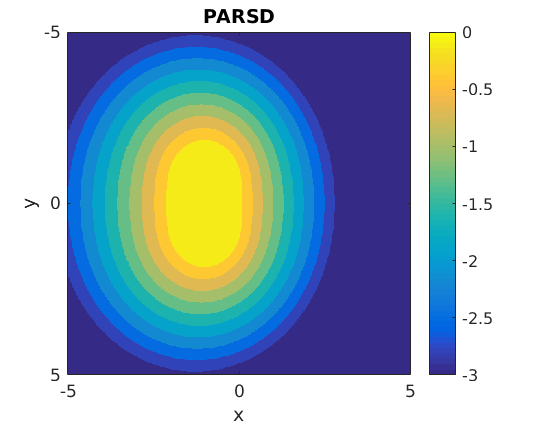
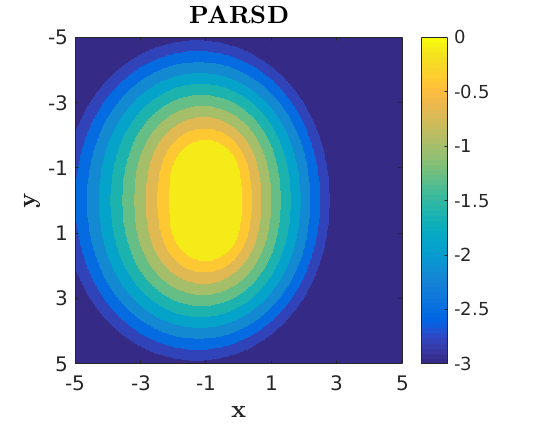
Changed font size and format.

Changed region(s): [[0.03, 0.0, 0.9288, 0.946], [0.4195, 0.946, 0.4794, 1.0]]

diff --git a/Documents/M1/realizableFermionicM1/figures/MabWithDiffClosure.m b/Documents/M1/realizableFermionicM1/figures/MabWithDiffClosure.m
@@ -1,41 +1,41 @@
-% close all
-% clear all
-% 
-% PolynomialCB = @(x) x^2 * ( 3.0 - abs(x) + 3.0 * x^2 ) / 5.0;
-% EddingtonFCB = @(e,f) (2.0/3.0)*(1.0-e)*(1.0-2.0*e)*PolynomialCB(f/(1.0-e))+1.0/3.0;
-% PolynomialBL = @(x) ( 9.0 * x^2 - 5.0 + sqrt( 33.0 * x^4 - 42.0 * x^2 + 25.0 ) ) /8.0;
-% EddingtonFBL = @(e,f) (2.0/3.0)*(1.0-e)*(1.0-2.0*e)*PolynomialBL(f/(1.0-e))+1.0/3.0;
-% PolynomialKS = @(x) x^2;
-% EddingtonFKS = @(e,f) (2.0/3.0)*(1.0-e)*(1.0-2.0*e)*PolynomialKS(f/(1.0-e))+1.0/3.0; 
-% 
-% nPts = 2000000;
-% J_FD = zeros(nPts,1);
-% H_FD = zeros(nPts,1);
-% iPt = 1;
-% while( iPt <= nPts )
-%     J_FD(iPt) = rand(1);
-%     temp = (rand(1)-0.5)*0.5;
-%     if( abs(temp) <= (1-J_FD(iPt))*J_FD(iPt) )
-%         H_FD(iPt) = temp;
-%         iPt = iPt + 1;
-%     end
-% end
-% 
-% K_CB = zeros(nPts,1);
-% K_BL = zeros(nPts,1);
-% K_MI = zeros(nPts,1);
-% K_KS = zeros(nPts,1);
-% 
-% tic
-% for iPt = 1 : nPts
-%   
-%   K_CB(iPt) = EddingtonFCB( J_FD(iPt), H_FD(iPt)/J_FD(iPt) ) * J_FD(iPt);
-%   K_BL(iPt) = EddingtonFBL( J_FD(iPt), H_FD(iPt)/J_FD(iPt) ) * J_FD(iPt);
-%   K_MI(iPt) = EddingtonFCB( 0.0,       H_FD(iPt)/J_FD(iPt) ) * J_FD(iPt);
-%   K_KS(iPt) = EddingtonFBL( J_FD(iPt), H_FD(iPt)/J_FD(iPt) ) * J_FD(iPt);
-%   
-% end
-% toc
+close all
+clear all
+
+PolynomialCB = @(x) x^2 * ( 3.0 - abs(x) + 3.0 * x^2 ) / 5.0;
+EddingtonFCB = @(e,f) (2.0/3.0)*(1.0-e)*(1.0-2.0*e)*PolynomialCB(f/(1.0-e))+1.0/3.0;
+PolynomialBL = @(x) ( 9.0 * x^2 - 5.0 + sqrt( 33.0 * x^4 - 42.0 * x^2 + 25.0 ) ) /8.0;
+EddingtonFBL = @(e,f) (2.0/3.0)*(1.0-e)*(1.0-2.0*e)*PolynomialBL(f/(1.0-e))+1.0/3.0;
+PolynomialKS = @(x) x^2;
+EddingtonFKS = @(e,f) (2.0/3.0)*(1.0-e)*(1.0-2.0*e)*PolynomialKS(f/(1.0-e))+1.0/3.0; 
+
+nPts = 2000000;
+J_FD = zeros(nPts,1);
+H_FD = zeros(nPts,1);
+iPt = 1;
+while( iPt <= nPts )
+    J_FD(iPt) = rand(1);
+    temp = (rand(1)-0.5)*0.5;
+    if( abs(temp) <= (1-J_FD(iPt))*J_FD(iPt) )
+        H_FD(iPt) = temp;
+        iPt = iPt + 1;
+    end
+end
+
+K_CB = zeros(nPts,1);
+K_BL = zeros(nPts,1);
+K_MI = zeros(nPts,1);
+K_KS = zeros(nPts,1);
+
+tic
+for iPt = 1 : nPts
+  
+  K_CB(iPt) = EddingtonFCB( J_FD(iPt), H_FD(iPt)/J_FD(iPt) ) * J_FD(iPt);
+  K_BL(iPt) = EddingtonFBL( J_FD(iPt), H_FD(iPt)/J_FD(iPt) ) * J_FD(iPt);
+  K_MI(iPt) = EddingtonFCB( 0.0,       H_FD(iPt)/J_FD(iPt) ) * J_FD(iPt);
+  K_KS(iPt) = EddingtonFBL( J_FD(iPt), H_FD(iPt)/J_FD(iPt) ) * J_FD(iPt);
+  
+end
+toc
 
 ClosureName = {'Kershaw', 'CB', 'BL','Minerbo'};
 ClosureSaveName = {'BLKS','CBME','BLME','MI'};
@@ -72,9 +72,9 @@ plot( xxM_FD, yy, '-k', 'linewidth', 2 )
 hold off
 axis([-0.3 0.300001 0.0-1.d-2 1.0+1.d-2]);
 set(gca,'FontSize',15);
-xlabel('$\mathcal{H}_{ab}$','Interpreter','LaTeX','Fontsize',17);
-ylabel('$\mathcal{J}_{ab}$','Interpreter','LaTeX','Fontsize',17);
-title(Closure,'Interpreter','LaTeX','Fontsize',19);
+xlabel('$\mathcal{H}_{ab}$','Interpreter','LaTeX','Fontsize',19);
+ylabel('$\mathcal{J}_{ab}$','Interpreter','LaTeX','Fontsize',19);
+title(['\bf ',Closure],'Interpreter','LaTeX','Fontsize',19);
 x0=10;
 y0=5;
 width=400;

diff --git a/Documents/M1/realizableFermionicM1/figures/plotDifferentClosure.m b/Documents/M1/realizableFermionicM1/figures/plotDifferentClosure.m
@@ -6,7 +6,7 @@ theta_MECB = @(x) x.*x.*(3-x+3.*x.*x)./5;
 theta_MEBL = @(x) (9.*x.*x-5+sqrt(33.*x.^4 - 42.*x.*x+25))/8;
 
 nPts = 1024;
-J = 0.01;
+J = 0.99;
 h = linspace(0.0,1.0 - J,nPts);
 
 Kershaw = zeros(nPts,1);
@@ -34,8 +34,8 @@ lgnd = legend({'Kershaw','CB','BL','Minerbo'},...
 set(lgnd,'FontSize',14);
 xlim([0,1-J]);
 set(gca,'FontSize',14)
-xlabel('Flux factor $h$','Interpreter','LaTeX','FontSize',19);
-ylabel('Eddington factor $\chi$','Interpreter','LaTeX','FontSize',19);
+xlabel('{\bf Flux factor} $h$','Interpreter','LaTeX','FontSize',19);
+ylabel('{\bf Eddington factor} $\chi$','Interpreter','LaTeX','FontSize',19);
 title(['$\mathcal{J}$ = ',num2str(J)],'Interpreter','LaTeX','FontSize',19);
 
 x0=10;
